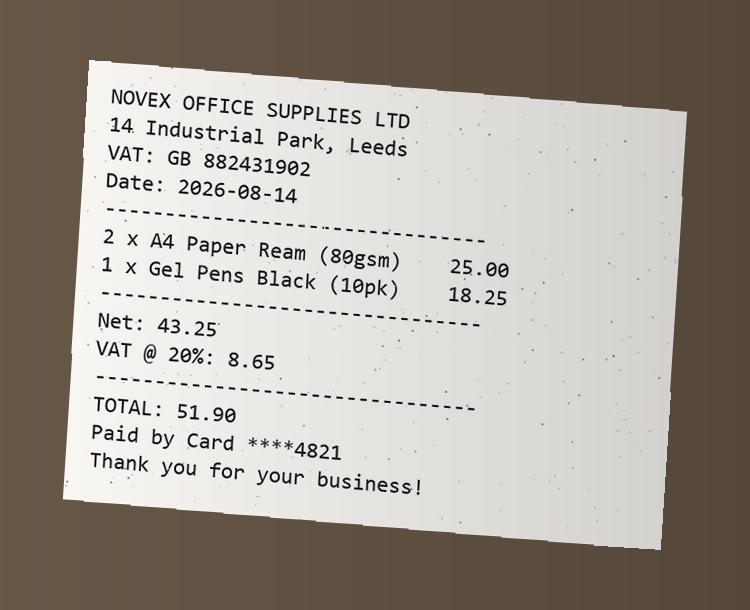
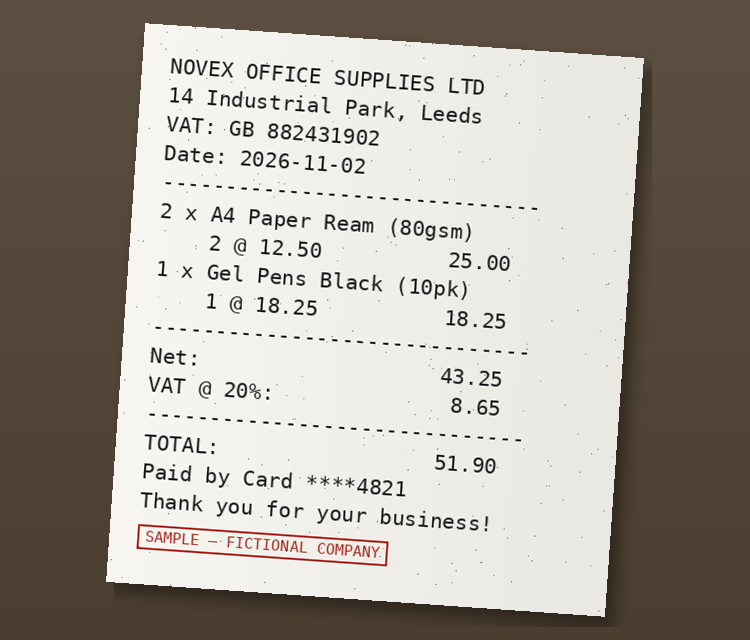
demo: sample receipt dated 2 Nov 2026, labelled SAMPLE — FICTIONAL COMPANY, with a generator
Same fictional Novex receipt and amounts (net 43.25, VAT 8.65, total 51.90), now dated inside the
quarter that contains 4 Nov 2026 for every stagger, with unit prices so the line arithmetic checks.
tools/make_sample_receipt.py redraws it deterministically.

diff --git a/tools/make_sample_receipt.py b/tools/make_sample_receipt.py
@@ -1,0 +1,100 @@
+#!/usr/bin/env python3
+"""Draw the fictional demo receipt served at accnomos.com/sample-receipt.png (apps/web/public/).
+
+Deterministic (fixed seed), so re-running gives the same file. The supplier is fictional and the image says so.
+The date sits inside the VAT quarter that contains 4 Nov 2026 for every HMRC stagger (Oct–Dec, Nov–Jan, Sep–Nov)
+and for monthly returns, so approving it on stage moves Box 4 by £8.65 and Box 7 by £43.
+
+    python tools/make_sample_receipt.py            # writes apps/web/public/sample-receipt.png
+    python tools/make_sample_receipt.py out.png
+"""
+
+from __future__ import annotations
+
+import random
+import sys
+from pathlib import Path
+
+from PIL import Image, ImageDraw, ImageFilter, ImageFont
+
+ROOT = Path(__file__).resolve().parents[1]
+OUT = ROOT / "apps/web/public/sample-receipt.png"
+DATE = "2026-11-02"
+LABEL = "SAMPLE — FICTIONAL COMPANY"
+RULE = "-" * 30
+LINES = [
+    "NOVEX OFFICE SUPPLIES LTD",
+    "14 Industrial Park, Leeds",
+    "VAT: GB 882431902",
+    f"Date: {DATE}",
+    RULE,
+    "2 x A4 Paper Ream (80gsm)",
+    "    2 @ 12.50          25.00",
+    "1 x Gel Pens Black (10pk)",
+    "    1 @ 18.25          18.25",
+    RULE,
+    "Net:                   43.25",
+    "VAT @ 20%:              8.65",
+    RULE,
+    "TOTAL:                 51.90",
+    "Paid by Card ****4821",
+    "Thank you for your business!",
+]
+FONTS = ("/usr/share/fonts/truetype/dejavu/DejaVuSansMono.ttf", "DejaVuSansMono.ttf", "consola.ttf", "cour.ttf")
+
+
+def font(size: int) -> ImageFont.FreeTypeFont | ImageFont.ImageFont:
+    for name in FONTS:
+        try:
+            return ImageFont.truetype(name, size)
+        except OSError:
+            continue
+    return ImageFont.load_default(size)
+
+
+def receipt() -> Image.Image:
+    rnd = random.Random(26)
+    body, small = font(21), font(15)
+    w, line_h, pad = 500, 29, 28
+    h = pad * 2 + line_h * len(LINES) + 40
+    paper = Image.new("RGB", (w, h), (246, 245, 240))
+    d = ImageDraw.Draw(paper)
+    for x in range(w):  # a little shading across the paper
+        shade = 246 - int(14 * x / w)
+        d.line([(x, 0), (x, h)], fill=(shade, shade - 1, shade - 6))
+    for _ in range(260):  # specks
+        x, y = rnd.randrange(w), rnd.randrange(h)
+        g = rnd.randrange(60, 150)
+        d.point((x, y), fill=(g, g, g))
+    y = pad
+    for text in LINES:
+        d.text((pad, y), text, font=body, fill=(28, 28, 30))
+        y += line_h
+    # The label the brief asks for, boxed so a reader (human or model) cannot miss it.
+    tw = d.textlength(LABEL, font=small)
+    box = (pad, y + 8, pad + tw + 16, y + 8 + 24)
+    d.rectangle(box, outline=(170, 40, 30), width=2)
+    d.text((pad + 8, y + 11), LABEL, font=small, fill=(170, 40, 30))
+    return paper.filter(ImageFilter.GaussianBlur(0.35))
+
+
+def main(out: Path) -> None:
+    desk = Image.new("RGB", (750, 640), (92, 78, 64))
+    dd = ImageDraw.Draw(desk)
+    for y in range(desk.height):  # dark desk, lighter towards the top right
+        c = 92 - int(18 * y / desk.height)
+        dd.line([(0, y), (desk.width, y)], fill=(c, c - 13, c - 27))
+    paper = receipt().convert("RGBA").rotate(-4, resample=Image.BICUBIC, expand=True)
+    shadow = Image.new("RGBA", paper.size, (0, 0, 0, 0))
+    shadow.paste((0, 0, 0, 110), mask=paper.split()[3])
+    shadow = shadow.filter(ImageFilter.GaussianBlur(8))
+    x, y = (desk.width - paper.width) // 2, (desk.height - paper.height) // 2
+    desk.paste(shadow, (x + 8, y + 10), shadow)
+    desk.paste(paper, (x, y), paper)
+    out.parent.mkdir(parents=True, exist_ok=True)
+    desk.save(out, optimize=True)
+    print(f"wrote {out} ({desk.width}x{desk.height}), dated {DATE}")
+
+
+if __name__ == "__main__":
+    main(Path(sys.argv[1]) if len(sys.argv) > 1 else OUT)
